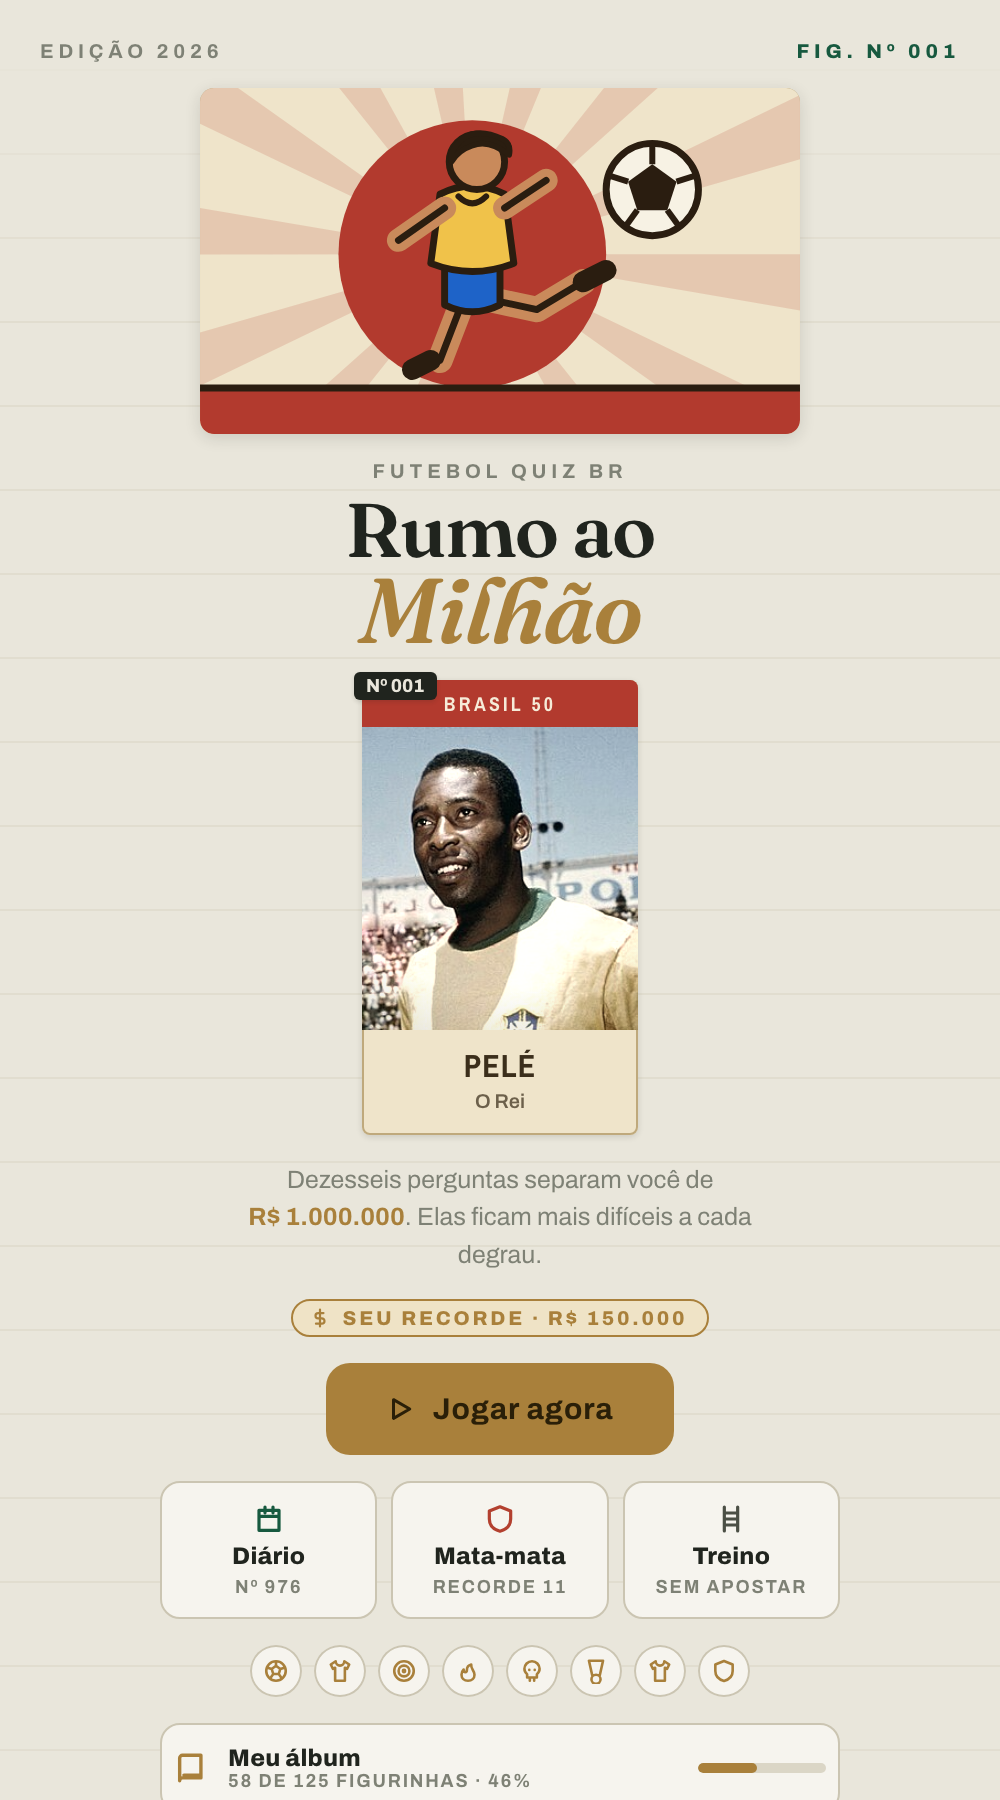
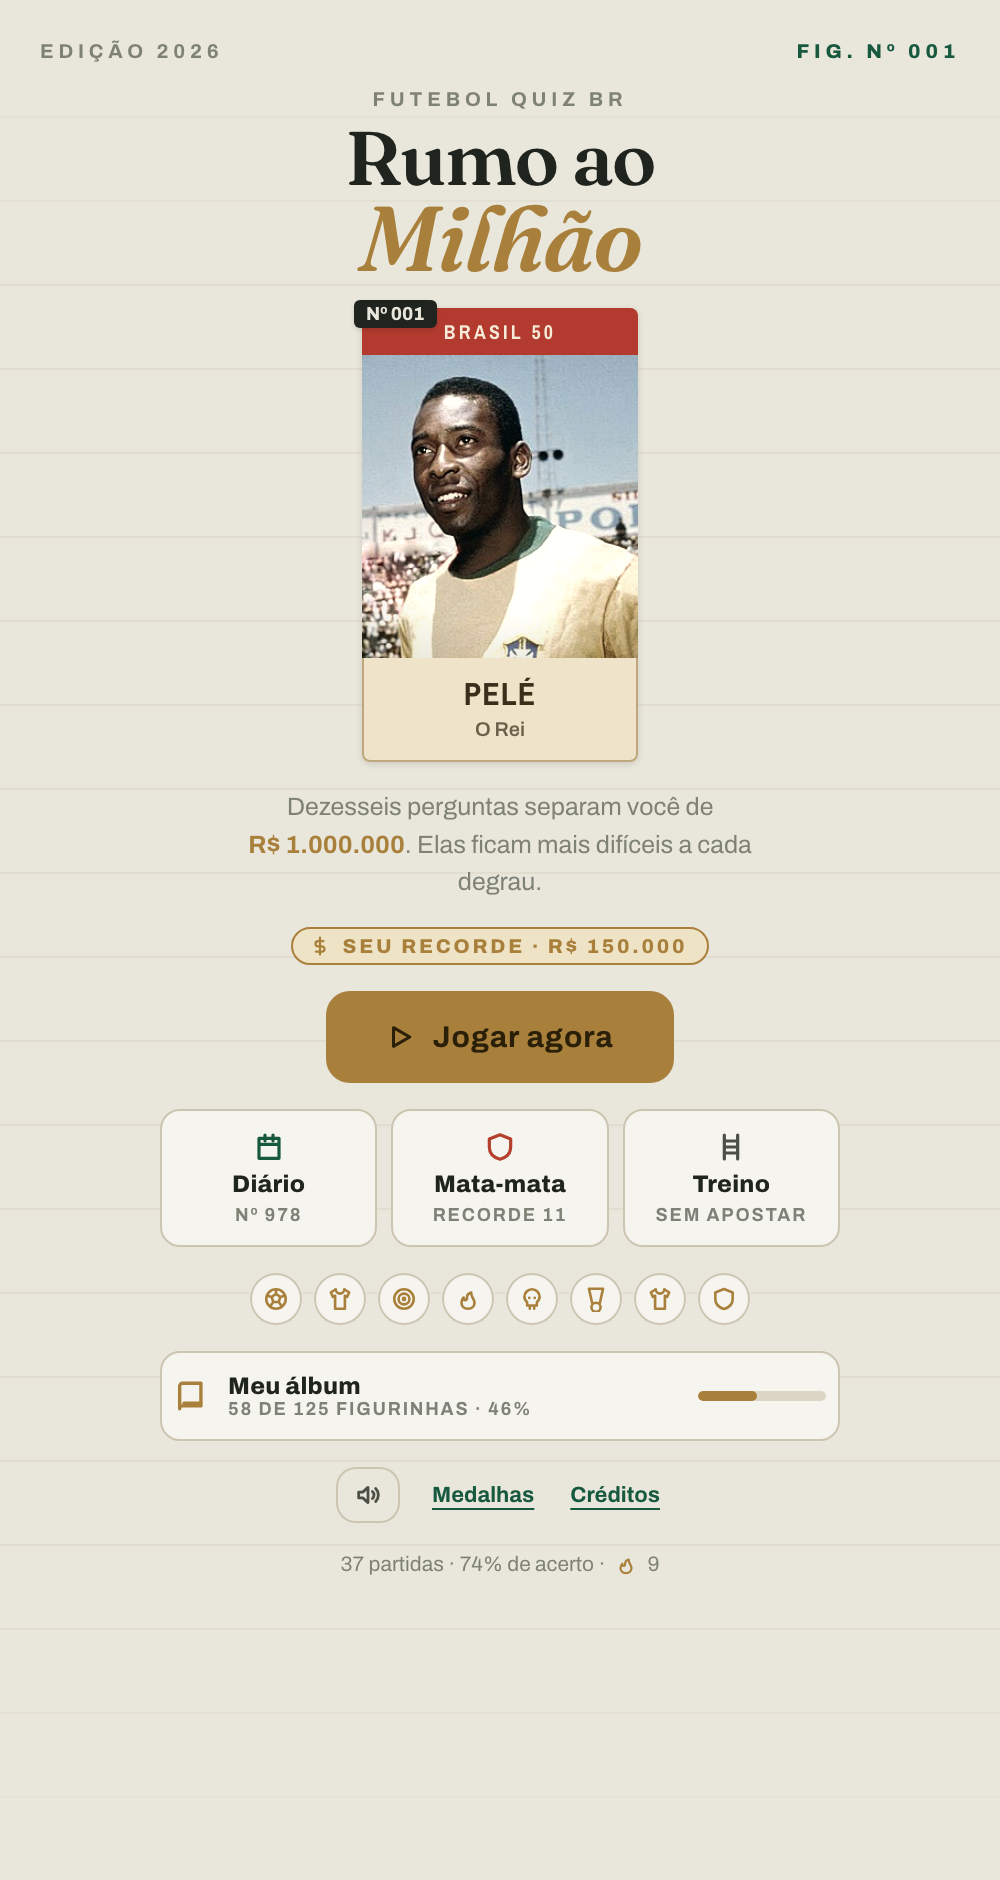
Drop the painted cover from the home screen
The home screen opened with two pictures stacked — the painted striker
and the figurinha underneath it — and the sticker is the one that says
what the game is. Removing the cover takes the title, the sticker and
JOGAR AGORA higher up, and retires the three max-height media queries
that existed only to shrink and then hide the cover on a short phone.

ART.cover() goes with it; nothing else called it.

Claude-Session: https://claude.ai/code/session_01AeDN92YGYdCLcJmAVMuuVY

diff --git a/index.html b/index.html
@@ -563,14 +563,6 @@
     .rung-n { width: 17px; text-align: right; flex-shrink: 0; font-size: 9px; color: var(--ink-4); font-weight: 700; }
 
     /* ── Home ── */
-    .cover-art { width: 100%; max-width: 300px; border-radius: 7px; overflow: hidden;
-      box-shadow: inset 0 0 0 1px var(--retro-edge), 0 2px 8px var(--shadow); }
-    /* The painted cover is the first thing you see, but not at the cost of the
-       button underneath it: on a short phone it gives back the height so
-       JOGAR AGORA stays above the fold. */
-    @media (max-height: 780px) { .cover-art { max-width: 208px; } }
-    @media (max-height: 700px) { .cover-art { max-width: 156px; } }
-    @media (max-height: 600px) { .cover-art { display: none; } }
     .hero-sticker { width: 138px; margin: 0 auto; }
     .modes { display: flex; gap: 7px; width: 100%; max-width: 340px; }
     .mode { flex: 1; min-width: 0; background: var(--pocket); border: 1px solid var(--rule); border-radius: 10px; padding: 10px 6px; text-align: center; cursor: pointer;
@@ -3410,58 +3402,6 @@ function mkPort(p) {
    bold flat shapes, one heavy outline, no gradients, no gloss.
 ═══════════════════════════════════════════════════ */
 const ART = {
-  /* The cover: a striker on a red sun, drawn the way the old albums drew
-     one — flat colour, one heavy outline, no shading. Built as a
-     pictogram (limbs are thick round-capped strokes) because a painted
-     figure at this size turns to mud. */
-  cover(w) {
-    return `<svg viewBox="0 0 260 150" width="${w || 260}" role="img"
-      aria-label="Ilustração de um jogador chutando" style="display:block;max-width:100%;height:auto;">
-      <defs><clipPath id="covclip"><rect width="260" height="150" rx="6"/></clipPath></defs>
-      <g clip-path="url(#covclip)">
-        <rect width="260" height="150" fill="var(--retro-card)"/>
-        ${[...Array(14)].map((_, i) => {
-          const a1 = (i * 25.7) * Math.PI / 180, a2 = a1 + .17;
-          return `<path d="M118 72 L${118 + Math.cos(a1) * 190} ${72 + Math.sin(a1) * 190}
-            L${118 + Math.cos(a2) * 190} ${72 + Math.sin(a2) * 190} Z"
-            fill="var(--retro-band)" opacity=".16"/>`;
-        }).join('')}
-        <circle cx="118" cy="72" r="58" fill="var(--retro-band)"/>
-        <g fill="none" stroke="#2A1D10" stroke-width="3" stroke-linecap="round" stroke-linejoin="round">
-          <!-- back leg, planted -->
-          <path d="M114 92 L104 118" stroke="#C98A5B" stroke-width="11"/>
-          <path d="M114 92 L104 118" stroke-width="3"/>
-          <path d="M100 118 L92 122" stroke="#2A1D10" stroke-width="9"/>
-          <!-- the striking leg -->
-          <path d="M118 90 L146 96 L166 84" stroke="#C98A5B" stroke-width="11"/>
-          <path d="M118 90 L146 96 L166 84" stroke-width="3"/>
-          <path d="M166 84 L176 79" stroke="#2A1D10" stroke-width="9"/>
-          <!-- shorts -->
-          <path d="M106 76 h24 v18 q-12 6 -24 0 Z" fill="#1E63C8" stroke-width="3"/>
-          <!-- shirt -->
-          <path d="M104 46 q14 -7 28 0 l4 30 q-18 7 -36 0 Z" fill="#F0C24A" stroke-width="3"/>
-          <path d="M112 47 q6 6 12 0" stroke-width="2.6"/>
-          <!-- arms -->
-          <path d="M106 52 L86 66" stroke="#C98A5B" stroke-width="10"/>
-          <path d="M106 52 L86 66" stroke-width="3"/>
-          <path d="M132 52 L150 40" stroke="#C98A5B" stroke-width="10"/>
-          <path d="M132 52 L150 40" stroke-width="3"/>
-          <!-- head -->
-          <circle cx="120" cy="32" r="12" fill="#C98A5B" stroke-width="3"/>
-          <path d="M109 28 q7 -13 22 -6 q4 2 3 7 q-9 -7 -16 -4 q-6 2 -9 7 Z" fill="#2A1D10" stroke-width="2.4"/>
-        </g>
-        <g transform="translate(196 44)">
-          <circle r="20" fill="#F7F2E4" stroke="#2A1D10" stroke-width="3"/>
-          <path d="M0 -11 L10.5 -3.4 L6.5 9 L-6.5 9 L-10.5 -3.4 Z" fill="#2A1D10"/>
-          ${[0, 72, 144, 216, 288].map(a => `<path d="M0 -11 L0 -20" stroke="#2A1D10"
-            stroke-width="2.6" transform="rotate(${a})"/>`).join('')}
-        </g>
-        <path d="M0 130 h260 v20 h-260 Z" fill="var(--retro-band)"/>
-        <path d="M0 130 h260" stroke="#2A1D10" stroke-width="3"/>
-      </g>
-    </svg>`;
-  },
-
   /* a little printed vignette of a ground, for the stadium questions */
   stadium(w) {
     return `<svg viewBox="0 0 120 80" width="${w || 120}" role="img" aria-label="Ilustração de um estádio"
@@ -3870,8 +3810,6 @@ function html() {
       <div class="eyebrow" style="width:100%;display:flex;justify-content:space-between;">
         <span>Edição ${year}</span><b>Fig. Nº ${String(num).padStart(3, '0')}</b>
       </div>
-
-      <div class="cover-art">${ART.cover(300)}</div>
 
       <div>
         <div class="eyebrow">Futebol Quiz BR</div>
